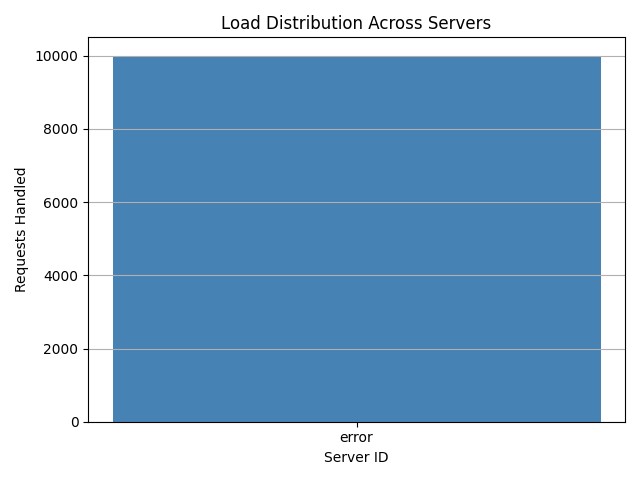
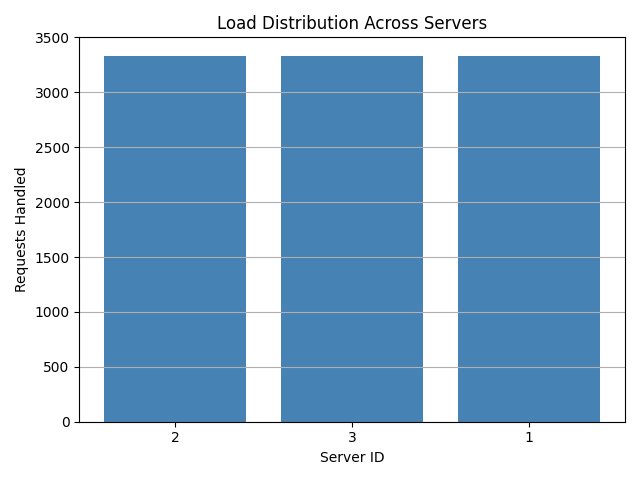
Updated Load_Balancer Analysis

diff --git a/client/test_scalability.py b/client/test_scalability.py
@@ -1,0 +1,93 @@
+import asyncio
+import aiohttp
+import matplotlib.pyplot as plt
+from collections import defaultdict
+import subprocess
+import time
+
+LB_HOME_URL = "http://localhost:6000/home?id="
+LB_ADD_URL = "http://localhost:6000/add"
+LB_RM_URL = "http://localhost:6000/rm"
+NUM_REQUESTS = 10000
+MAX_CONCURRENCY = 100  # limit concurrent HTTP requests
+STARTUP_DELAY = 10     # seconds to wait after /add
+
+async def fetch(sem, session, url):
+    async with sem:
+        try:
+            async with session.get(url, timeout=10) as response:
+                data = await response.json()
+                msg = data.get("container_response", {}).get("message", "")
+                return msg.split("Server")[-1].strip()
+        except:
+            return "error"
+
+async def send_requests():
+    counts = defaultdict(int)
+    sem = asyncio.Semaphore(MAX_CONCURRENCY)
+
+    async with aiohttp.ClientSession() as session:
+        tasks = [
+            asyncio.create_task(fetch(sem, session, LB_HOME_URL + str(i)))
+            for i in range(NUM_REQUESTS)
+        ]
+        for coro in asyncio.as_completed(tasks):
+            sid = await coro
+            counts[sid] += 1
+
+    return counts
+
+def add_servers(n):
+    hostnames = [f"auto{i}" for i in range(n)]
+    payload = {
+        "n": n,
+        "hostnames": hostnames
+    }
+    subprocess.run([
+        "curl", "-s", "-X", "POST", LB_ADD_URL,
+        "-H", "Content-Type: application/json",
+        "-d", str(payload).replace("'", '"')
+    ])
+
+def remove_all_servers():
+    subprocess.run([
+        "curl", "-s", "-X", "DELETE", LB_RM_URL,
+        "-H", "Content-Type: application/json",
+        "-d", '{"n": 6}'
+    ])
+
+async def main():
+    results = []
+
+    for n in range(2, 7):  # N = 2 to 6
+        print(f"\n▶ Testing with {n} servers...")
+        remove_all_servers()
+        time.sleep(2)  # allow removal to propagate
+        add_servers(n)
+        print(f"⏳ Waiting {STARTUP_DELAY}s for {n} servers to boot…")
+        await asyncio.sleep(STARTUP_DELAY)
+
+        counts = await send_requests()
+        total_handled = sum(v for k, v in counts.items() if k != "error")
+        avg = total_handled / n if n else 0
+        results.append((n, avg))
+
+        errors = counts.get("error", 0)
+        print(f"Handled: {total_handled}  Errors: {errors}")
+        print(f"Average load per server for N={n}: {avg:.2f}")
+
+    # Plot scalability line chart
+    x = [r[0] for r in results]
+    y = [r[1] for r in results]
+
+    plt.plot(x, y, marker='o')
+    plt.title("Average Requests per Server vs Number of Servers")
+    plt.xlabel("Number of Servers (N)")
+    plt.ylabel("Average Requests per Server")
+    plt.grid(True)
+    plt.tight_layout()
+    plt.savefig("client/scalability_chart.png")
+    print("\n📊 Line chart saved as client/scalability_chart.png")
+
+if __name__ == "__main__":
+    asyncio.run(main())

diff --git a/client/test_load_distribution.py b/client/test_load_distribution.py
@@ -4,34 +4,40 @@ from collections import defaultdict
 import matplotlib.pyplot as plt
 
 NUM_REQUESTS = 10000
+MAX_CONCURRENCY = 100  # at most 100 simultaneous HTTP requests
 LB_URL = "http://localhost:6000/home?id="
 
-async def fetch(session, url):
-    try:
-        async with session.get(url, timeout=5) as response:
-            data = await response.json()
-            server_msg = data.get("container_response", {}).get("message", "")
-            server_id = server_msg.split()[-1]  # Extract "Server X"
-            return server_id
-    except Exception:
-        return "error"
+async def fetch(sem, session, url):
+    # throttle with semaphore
+    async with sem:
+        try:
+            async with session.get(url, timeout=10) as response:
+                data = await response.json()
+                server_msg = data.get("container_response", {}).get("message", "")
+                # Extract "Server lbX" → "lbX"
+                return server_msg.split("Server")[-1].strip()
+        except:
+            return "error"
 
 async def main():
     counts = defaultdict(int)
+    sem = asyncio.Semaphore(MAX_CONCURRENCY)
 
     async with aiohttp.ClientSession() as session:
-        tasks = []
-        for i in range(NUM_REQUESTS):
-            url = LB_URL + str(i)
-            tasks.append(fetch(session, url))
+        print("⏳ Waiting 10 seconds for servers to be ready…")
+        await asyncio.sleep(10)
 
-        responses = await asyncio.gather(*tasks)
+        tasks = [
+            asyncio.create_task(fetch(sem, session, LB_URL + str(i)))
+            for i in range(NUM_REQUESTS)
+        ]
 
-        for server_id in responses:
+        for coro in asyncio.as_completed(tasks):
+            server_id = await coro
             counts[server_id] += 1
 
     # Output counts
-    print("\nRequest Distribution (10,000 requests):")
+    print("\nRequest Distribution (10 000 requests):")
     for server, count in counts.items():
         print(f"{server}: {count} requests")
 

diff --git a/client/load_balancer.py b/client/load_balancer.py
@@ -3,6 +3,7 @@ import uuid
 import json
 import subprocess
 import sys
+import traceback
 from flask import Flask, request, jsonify
 
 # Import consistent hashing class from Task 2
@@ -128,6 +129,7 @@ def route_request():
         }), 200
 
     except Exception as e:
+        traceback.print_exc()
         return jsonify({
             "message": f"<Error> {str(e)}",
             "status": "failure"
